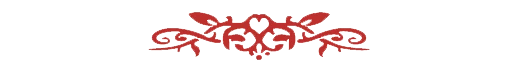
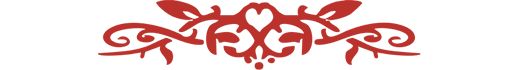
14.20

Changed region(s): [[0.185, 0.0, 0.8324, 1.0]]

diff --git a/css/journals.css b/css/journals.css
@@ -193,6 +193,30 @@ div.pen-adventure-entry {
       color: black;
     }
 
+    .external-object {
+      padding-top: 5px;
+      & a.content-link {
+        background: var(--content-link-background);
+        padding: 1px 4px 0;
+        border: 1px solid var(--content-link-border-color);
+        border-radius: 2px;
+        margin: -1px 0;
+        white-space: nowrap;
+        word-break: break-all;
+        color: var(--pendragon-hyperlink);
+
+        i {
+          display: inline;
+          color: var(--pendragon-hyperlink);
+        }
+
+        &.broken {
+          display:none;
+        }
+      }
+    }
+
+
     .redbox a.content-link {
       background: none;
       border: none;

diff --git a/CHANGELOG.md b/CHANGELOG.md
@@ -1,5 +1,9 @@
 # CHANGELOG
 
+## 14.20
+- "Event (History)" can't be created as an item from the Item Directory - you only do this from the character sheet
+- Minor CSS tweaks
+
 ## 14.19
 - Localized Skill Categories pills on CharV2 skill tab
 - Fixed an issue with Starting Skill scores not calculating when dropping an skill on a character sheet.
